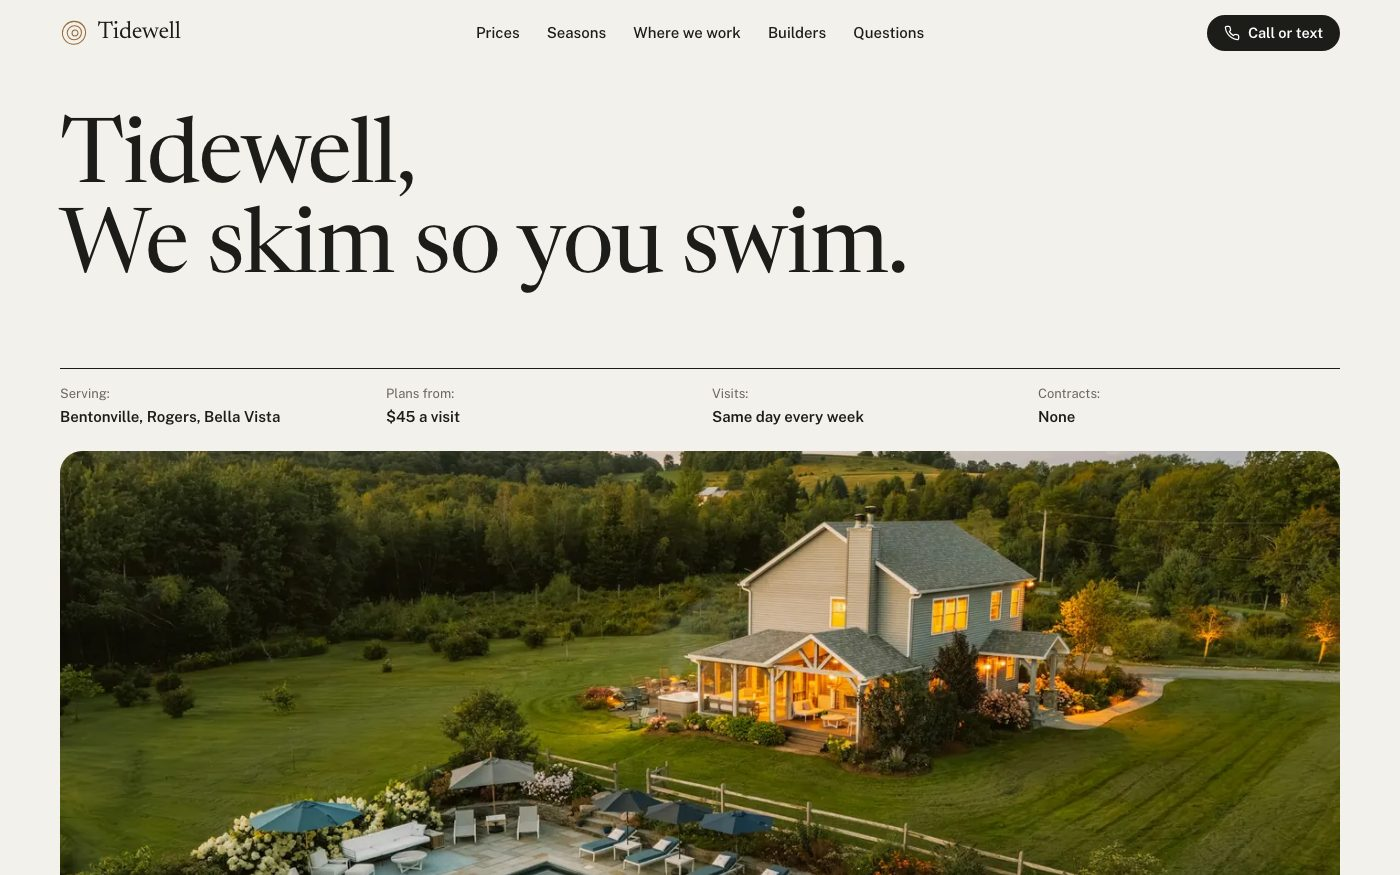
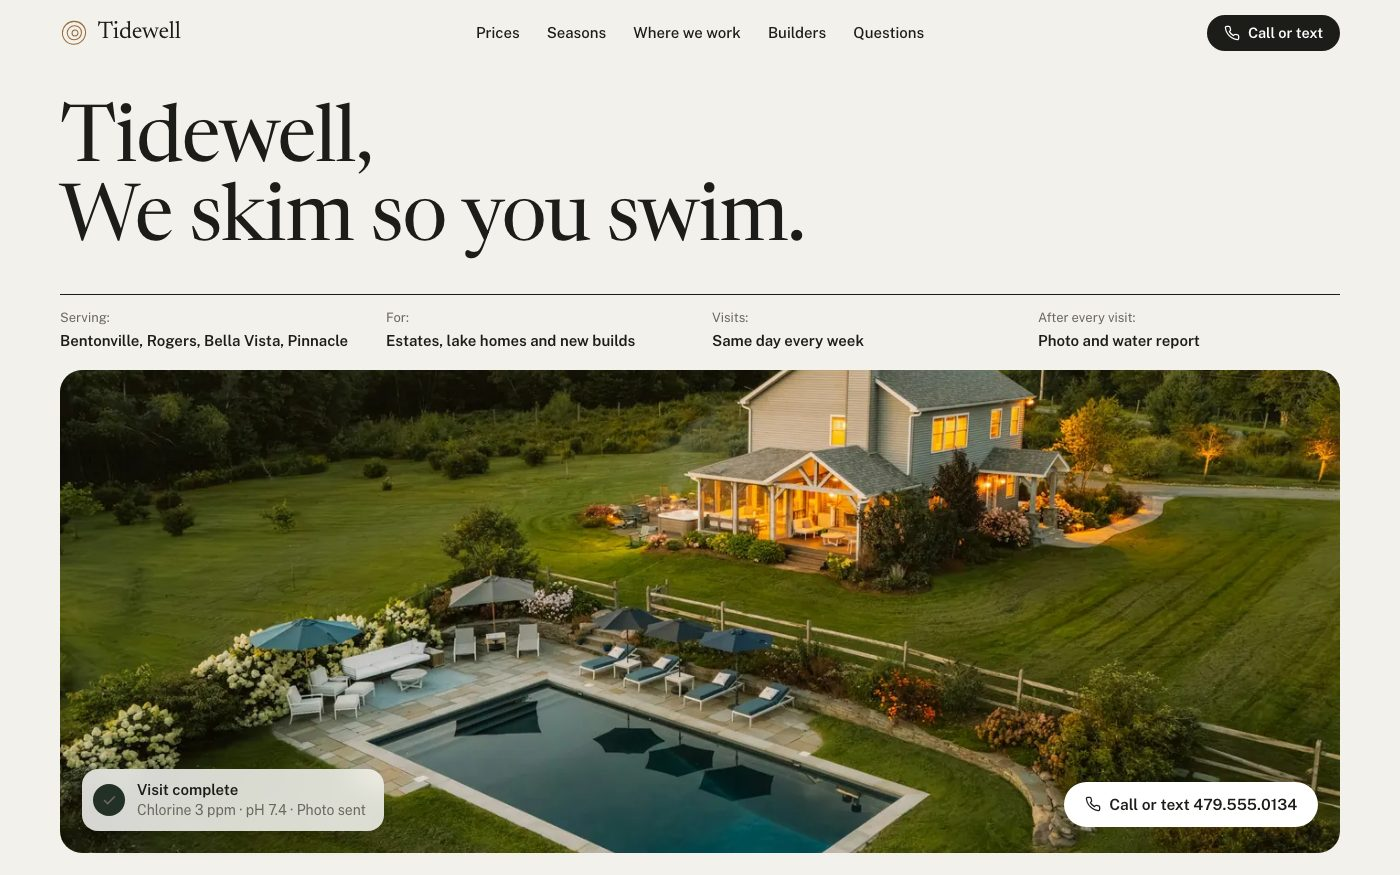
Tidewell demo: each section sized to one screen; estate, lake-home and builder copy; new lap pool, cedar pool house and hillside pool house photos; refresh thumbnail

diff --git a/demo/tidewell/index.html b/demo/tidewell/index.html
@@ -5,7 +5,7 @@
 <meta name="viewport" content="width=device-width, initial-scale=1">
 <title>Tidewell Pool Care | Pool Cleaning in Bentonville, Rogers &amp; Bella Vista, AR</title>
 <meta name="robots" content="noindex, nofollow, noarchive, nosnippet">
-<meta name="description" content="Weekly, bi-weekly, or monthly pool cleaning in Bentonville, Rogers and Bella Vista, AR, from $45 a visit with a photo and water report every time. Call or text 479.555.0134.">
+<meta name="description" content="Pool care for estates, lake homes and new builds in Bentonville, Rogers, Bella Vista and Pinnacle, AR. A photo and water report after every visit. Call or text 479.555.0134.">
 <meta property="og:title" content="Tidewell Pool Care | Pool cleaning in Northwest Arkansas">
 <meta property="og:description" content="Pool cleaning in Bentonville, Rogers and Bella Vista, AR. A photo and a water report after every visit. Call or text 479.555.0134.">
 <meta property="og:type" content="website">
@@ -175,7 +175,7 @@ details p{padding:0 3rem 1.3rem 0; color:var(--muted)}
 .close{padding:0 0 1.5rem}
 .close-photo{position:relative; border-radius:var(--r); overflow:hidden; min-height:620px; display:grid; place-items:center}
 .close-photo img{position:absolute; inset:0; width:100%; height:100%; object-fit:cover; object-position:center 60%}
-.close-photo::after{content:''; position:absolute; inset:0; background:linear-gradient(rgba(0,0,0,.25), rgba(0,0,0,.45))}
+.close-photo::after{content:''; position:absolute; inset:0; background:radial-gradient(ellipse at center, rgba(0,0,0,.52), rgba(0,0,0,.3) 70%)}
 .close-copy{position:relative; z-index:1; text-align:center; color:#fff; padding:3rem 1.5rem; display:flex; flex-direction:column; align-items:center}
 .close-copy h2{font-size:clamp(3rem,7vw,6rem); line-height:1}
 .close-copy p{max-width:34ch; margin:1rem 0 1.8rem; color:rgba(255,255,255,.92)}
@@ -232,6 +232,49 @@ footer{padding:1.6rem 0 2.2rem; font-size:14px; color:var(--muted)}
 @media(max-width:430px){
   .bar .pill .long{display:none}
 }
+
+/* ---------- each section fits one screen ---------- */
+:root{--vh:calc(100svh - 66px)}
+.hero{display:flex; flex-direction:column; height:var(--vh); min-height:600px; max-height:980px; padding:2.4rem 0 1.4rem}
+.hero > .wrap{display:flex; flex-direction:column; flex:1; min-height:0}
+.hero h1{font-size:clamp(2.6rem,min(6vw,9svh),5.8rem)}
+.facts{margin:auto 0 1.1rem; padding-top:.8rem}
+.hero-photo{flex:1; min-height:240px; max-height:640px}
+.hero-photo img{height:100%; aspect-ratio:auto}
+.facts{margin-top:2rem}
+.statement{padding:min(8rem,12svh) 0 min(7rem,10svh)}
+.tile{min-height:0; height:min(640px,calc(var(--vh) - 40px))}
+.sec{padding:min(5.5rem,9svh) 0}
+.ratecard{padding:.2rem 2.2rem 1.4rem}
+.rates th,.rates td{padding-top:min(1.1rem,1.6svh); padding-bottom:min(1.1rem,1.6svh)}
+.rates .price-quote{font-family:var(--sans); font-size:15.5px; font-weight:600; color:var(--ink)}
+.extras-line{margin-top:1rem}
+.ratecard-foot{margin-top:1rem; padding-top:1rem}
+.sec-head{margin-bottom:1.3rem}
+.guides li{aspect-ratio:auto; height:min(440px,calc(var(--vh) - 230px)); min-height:280px}
+.town-stack li{font-size:clamp(3rem,min(9vw,15svh),8.4rem)}
+.close-photo{min-height:0; height:min(640px,calc(var(--vh) - 40px))}
+@media(max-width:1000px){
+  .hero{height:auto; max-height:none; min-height:0}
+  .hero-photo{flex:none; max-height:none}
+  .hero-photo img{height:auto; aspect-ratio:4/3}
+  .tile{height:auto; min-height:520px}
+  .guides li{height:auto; min-height:260px}
+  .close-photo{height:auto; min-height:520px}
+}
+@media(max-width:700px){
+  .hero-photo img{aspect-ratio:4/5}
+  .tile{min-height:460px}
+  .guides li{min-height:230px}
+  .close-photo{min-height:480px}
+}
+#prices{padding:min(4rem,6svh) 0}
+#prices .sec-head{margin-bottom:1rem}
+#prices .rates tbody th{font-size:clamp(1.35rem,min(1.9vw,3.4svh),1.7rem)}
+#prices .rates .price{font-size:clamp(1.7rem,min(2.4vw,4.2svh),2.3rem)}
+#prices .rates thead th{padding-top:1rem; padding-bottom:.5rem}
+#prices .rates th,#prices .rates td{padding-top:min(1rem,1.3svh); padding-bottom:min(1rem,1.3svh)}
+#prices .rates .price.price-quote{font-family:var(--sans); font-size:15.5px; font-weight:600; letter-spacing:0; color:var(--ink)}
 @media(prefers-reduced-motion:reduce){*,*::before,*::after{transition-duration:.001ms !important}}
 </style>
 </head>
@@ -278,10 +321,10 @@ footer{padding:1.6rem 0 2.2rem; font-size:14px; color:var(--muted)}
   <div class="wrap">
     <h1>Tidewell,<br>We skim so you&nbsp;swim.</h1>
     <dl class="facts">
-      <div><dt>Serving:</dt><dd>Bentonville, Rogers, Bella&nbsp;Vista</dd></div>
-      <div><dt>Plans from:</dt><dd>$45 a visit</dd></div>
+      <div><dt>Serving:</dt><dd>Bentonville, Rogers, Bella&nbsp;Vista, Pinnacle</dd></div>
+      <div><dt>For:</dt><dd>Estates, lake homes and new&nbsp;builds</dd></div>
       <div><dt>Visits:</dt><dd>Same day every week</dd></div>
-      <div><dt>Contracts:</dt><dd>None</dd></div>
+      <div><dt>After every visit:</dt><dd>Photo and water report</dd></div>
     </dl>
     <figure class="hero-photo">
       <img src="img/hero-farmhouse-pool-1400.webp" srcset="img/hero-farmhouse-pool-900.webp 900w, img/hero-farmhouse-pool-1400.webp 1400w, img/hero-farmhouse-pool-2400.webp 2400w" sizes="(max-width:1320px) calc(100vw - 40px), 1280px" alt="A backyard pool with stone coping and a split-rail fence, below a farmhouse and wooded hills at dusk" width="1400" height="934" fetchpriority="high" decoding="async">
@@ -311,11 +354,11 @@ footer{padding:1.6rem 0 2.2rem; font-size:14px; color:var(--muted)}
       <div class="tile-foot"><span>Pool Care</span><span>Northwest Arkansas</span></div>
     </div>
     <div class="tile">
-      <img src="img/tile-pool-pines-1000.webp" srcset="img/tile-pool-pines-600.webp 600w, img/tile-pool-pines-1000.webp 1000w" sizes="(max-width:1000px) calc(100vw - 40px), 640px" alt="A clean pool with stone coping below tall pines and hardwoods" width="1000" height="1428" loading="lazy" decoding="async">
+      <img src="img/tile-lap-pool-dusk-1000.webp" srcset="img/tile-lap-pool-dusk-600.webp 600w, img/tile-lap-pool-dusk-1000.webp 1000w" sizes="(max-width:1000px) calc(100vw - 40px), 640px" alt="A lit lap pool beside a modern home and its covered terrace at dusk" width="1000" height="1232" loading="lazy" decoding="async">
       <div class="thread" role="img" aria-label="An example text from Tidewell after a visit: all done, chlorine 3 ppm, pH 7.4, gate latched">
         <p class="thread-head">Tidewell Pool Care · Tue 10:42 AM</p>
         <p class="bubble">All done. Chlorine 3 ppm, pH 7.4, alkalinity 90.</p>
-        <p class="bubble">Lot of pine needles in the skimmer this week. Gate's latched.</p>
+        <p class="bubble">Spa's heated for tonight. Gate's latched and the lights are on the timer.</p>
       </div>
     </div>
   </div>
@@ -335,6 +378,7 @@ footer{padding:1.6rem 0 2.2rem; font-size:14px; color:var(--muted)}
           <tr><th scope="row">Weekly</th><td class="price">$45</td><td>Pools in regular use, May through September</td></tr>
           <tr><th scope="row">Every two weeks</th><td class="price">$65</td><td>Covered pools, or ones that don't see much use</td></tr>
           <tr><th scope="row">Monthly</th><td class="price">$95</td><td>Keeping an eye on things in the off-season</td></tr>
+          <tr><th scope="row">Estate care</th><td class="price price-quote">By walkthrough</td><td>More than one pool, spas, fountains and water features</td></tr>
         </tbody>
       </table>
       <p class="extras-line"><b>Also:</b> spa or hot tub, add $15 a visit. First clean from $150 if needed. Green-to-clean $150, $250 or $400+. Openings and closings priced by pool&nbsp;size.</p>
@@ -372,7 +416,7 @@ footer{padding:1.6rem 0 2.2rem; font-size:14px; color:var(--muted)}
         <li>Bentonville</li>
         <li>Rogers</li>
       </ul>
-      <div class="towns-more"><span>Also Centerton, Pea Ridge, Cave Springs and Lowell, along&nbsp;I-49.</span><span>Springdale and Fayetteville by request.</span></div>
+      <div class="towns-more"><span>Also Pinnacle, Centerton, Pea Ridge, Cave Springs, Lowell and homes on Beaver&nbsp;Lake.</span><span>Springdale and Fayetteville by request.</span></div>
     </div>
   </div>
 </section>
@@ -381,14 +425,14 @@ footer{padding:1.6rem 0 2.2rem; font-size:14px; color:var(--muted)}
 <section id="builders" aria-label="For builders and developers">
   <div class="wrap tiles">
     <div class="tile tile-photo">
-      <img src="img/builder-stone-home-1400.webp" srcset="img/builder-stone-home-800.webp 800w, img/builder-stone-home-1400.webp 1400w" sizes="(max-width:1000px) calc(100vw - 40px), 640px" alt="A newly built stone and stucco home with fresh landscaping at sunset" width="1400" height="932" loading="lazy" decoding="async" style="object-position:56% center">
+      <img src="img/tile-cedar-pool-house-1000.webp" srcset="img/tile-cedar-pool-house-600.webp 600w, img/tile-cedar-pool-house-1000.webp 1000w" sizes="(max-width:1000px) calc(100vw - 40px), 640px" alt="A new cedar pool house beside a stone-edged plunge pool in the woods" width="1000" height="1141" loading="lazy" decoding="async">
       <div class="float-card" aria-hidden="true"><span class="fc-icon"><svg><use href="#i-drop"/></svg></span><div><b>Plaster start-up</b><span>Week 2 of 4 · Balanced today</span></div></div>
     </div>
     <div class="tile tile-taupe">
       <p class="label">For builders and developers</p>
       <div>
         <h2>Handover-ready pools for new&nbsp;builds.</h2>
-        <p>Plaster start-ups, spec homes and listings kept show-ready, and community pools on a set schedule, across Benton&nbsp;County.</p>
+        <p>For custom home builders and developers across Benton County. Plaster start-ups, spec homes and listings kept show-ready, and amenity pools on a set&nbsp;schedule.</p>
         <a class="pill pill-light" href="tel:+14795550134"><svg aria-hidden="true"><use href="#i-phone"/></svg>Call about builder rates</a>
       </div>
     </div>
@@ -402,7 +446,7 @@ footer{padding:1.6rem 0 2.2rem; font-size:14px; color:var(--muted)}
     <div>
       <details><summary>Do I need to be home?</summary><p>No. We just need to reach the pool, and we text you when we're done.</p></details>
       <details><summary>What if the gate is locked?</summary><p>Give us the code, or tell us where the key is. We latch it behind us every time.</p></details>
-      <details><summary>Can we swim right after?</summary><p>Give the water about 30 minutes after we balance it, then jump&nbsp;in.</p></details>
+      <details><summary>Do you look after second homes?</summary><p>Yes. For lake homes and second homes we check the pool, equipment and gate every visit, and send photos you can see from&nbsp;anywhere.</p></details>
       <details><summary>What if it storms?</summary><p>Rain doesn't stop us. Lightning does, and we come back the next day at no&nbsp;charge.</p></details>
       <details><summary>Do you open and close pools?</summary><p>Yes. Openings in March and April, closings in October and November, priced by pool&nbsp;size.</p></details>
       <details><summary>Do you service hot tubs?</summary><p>Yes, with the pool for $15 a visit, or on their own through the&nbsp;winter.</p></details>
@@ -414,7 +458,7 @@ footer{padding:1.6rem 0 2.2rem; font-size:14px; color:var(--muted)}
 <section class="close">
   <div class="wrap">
     <div class="close-photo">
-      <img src="img/close-pool-pines-1080.webp" srcset="img/close-pool-pines-720.webp 720w, img/close-pool-pines-1080.webp 1080w" sizes="(max-width:1320px) calc(100vw - 40px), 1280px" alt="" width="1080" height="984" loading="lazy" decoding="async">
+      <img src="img/close-stone-pool-house-2000.webp" srcset="img/close-stone-pool-house-1100.webp 1100w, img/close-stone-pool-house-2000.webp 2000w" sizes="(max-width:1320px) calc(100vw - 40px), 1280px" alt="" width="2000" height="1333" loading="lazy" decoding="async">
       <div class="close-copy">
         <h2>Want a price?</h2>
         <p>Text your address and a photo of the pool. We'll reply with a quote and the day we'd&nbsp;come.</p>

diff --git a/index.html b/index.html
@@ -158,7 +158,7 @@
           <span class="sp-dot"></span><span class="sp-dot"></span><span class="sp-dot"></span>
         </div>
         <div class="sp-stage">
-          <img class="sp-shot" src="images/demo-tidewell-desktop.jpg?v=6" alt="Tidewell Pool Care website home page" width="1400" height="875" loading="lazy" decoding="async">
+          <img class="sp-shot" src="images/demo-tidewell-desktop.jpg?v=7" alt="Tidewell Pool Care website home page" width="1400" height="875" loading="lazy" decoding="async">
           <button type="button" class="sp-open" aria-label="Explore the Tidewell website live"></button>
         </div>
       </figure>
